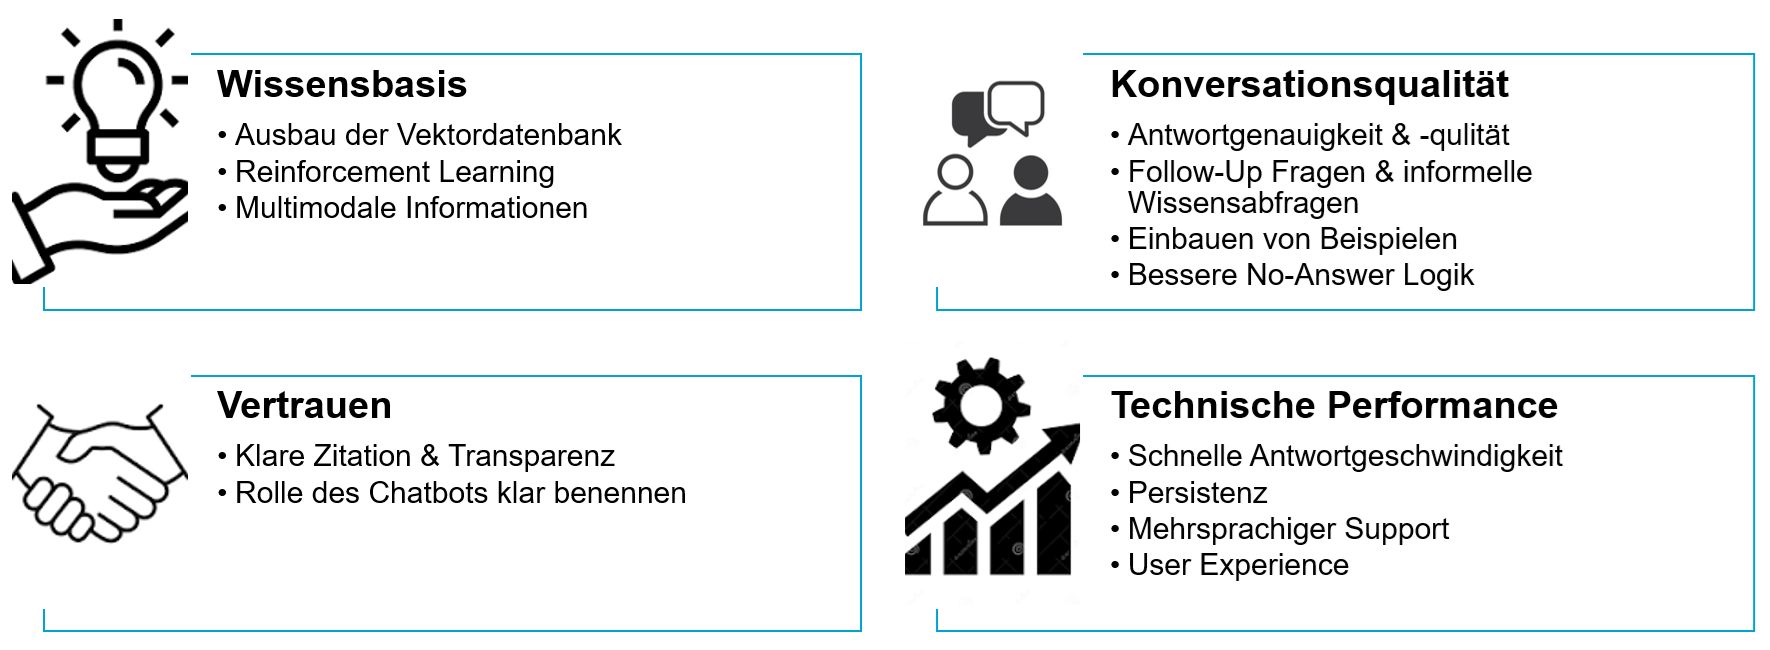
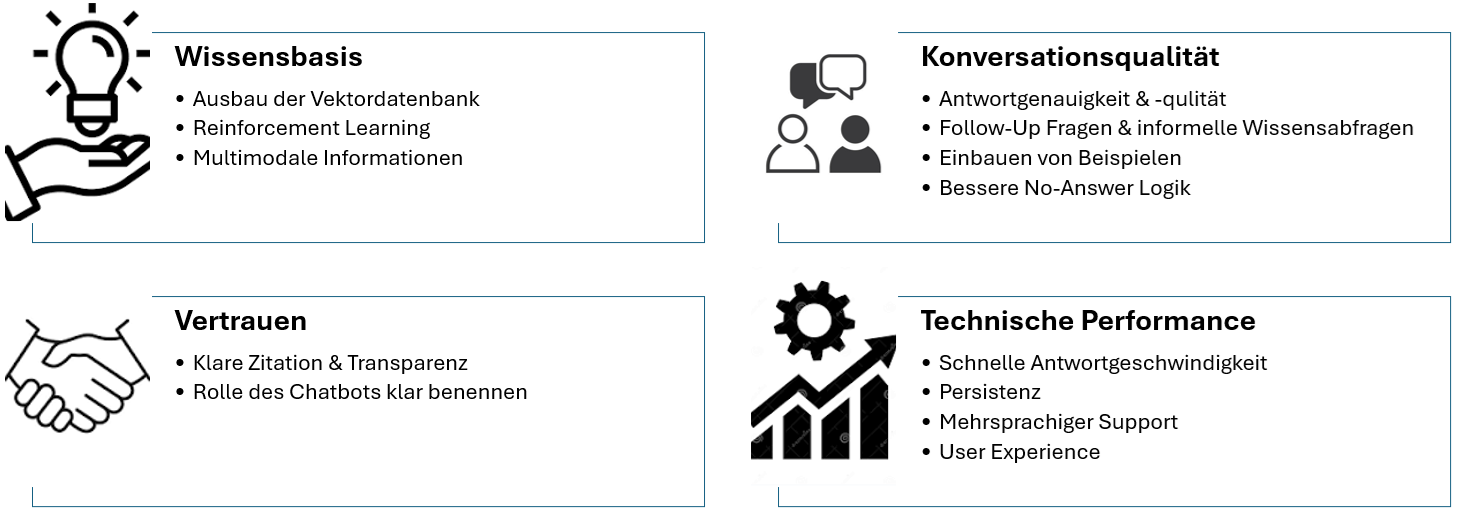
Methodik MaxW. Version1

diff --git a/kapitel/04_methodik.tex b/kapitel/04_methodik.tex
@@ -23,6 +23,7 @@ Neben Qualitäts- und Akzeptanzdimensionen gewinnt zunehmend auch die wirtschaft
 Zusammenfassend lässt sich der Forschungsstand in drei Entwicklungslinien bündeln: Erstens die Ausdifferenzierung technischer Metriken entlang von Retrieval- und Generationsdimensionen mit Fokus auf Kontexttreue und Robustheit \cite{Yu2025SurveyRAG}. Zweitens die Etablierung automatisierter, LLM-gestützter Evaluationsframeworks wie RAGAS zur skalierbaren Qualitätsmessung, deren Ergebnisse jedoch domänenspezifisch validiert werden müssen \cite{Es2023RAGAS,Roychowdhury2024RAGAS}. Drittens die Integration menschlicher Urteile – sowohl nutzer- als auch expertengestützt – sowie die Berücksichtigung ökonomischer Faktoren im Anwendungskontext \cite{Neumann2024MoodleBot}. Vor diesem Hintergrund ist eine kombinierte Evaluationsstrategie, die automatisierte Metriken, Blindtests und wirtschaftliche Analysen zusammenführt, methodisch gut begründet und entspricht dem aktuellen Stand der Forschung.
 
 \subsection{Evaluationskonzept}
+\label{sec:evalkonzept}
 
 \subsubsection{Blindtest: Experten}
 
@@ -111,11 +112,16 @@ Die Weiterentwicklung eines RAG-basierten Chatbots ist ebenso wie dessen Evaluat
 
 \subsubsection{Stand der Forschung}
 ??
+Single Hop und Multi Hop erklären
+Hybrides Retrieval erklären
+Reranker erklären
+?Sokratischer Lernassistent?
 
 \subsubsection{Stakeholder}
-Der Einbezug der Stakeholder erfolgt primär durch das Auswerten einer ersten Phase von User Test. Diese wurden im Februar 2025 nach X jährigen Bestehen des Chatbots druchgeführt.
-INFOS ZU USER TEST ERFRAGEN
-Die Ergebnisse der User Tests ist in Tabelle \ref{tab:usertests}
+INFO ZU USER TESTS ERFRAGEN
+
+Bevor der Durchführung des in Kapitel \ref{sec:evalkonzept} beschriebenen Evaluationskonzepts, erfolgt der Einbezug der Stakeholder primär durch das Auswerten einer ersten Phase von User Tests. Diese wurden im Februar 2025 durch den KI-Campus durchgeführt und folgten den Think-Aloud Protokoll bei Nutzung des Chatbots. Final gesammelt wurden dabei die Defizite der aktuellen Chatbotversion, welche nach Relevanz kategorisiert wurden. Diese Erkenntnisse wurden durch die Autoren in Oberkategorien synthetisiert und diese Ergebnisse sind in Tabelle \ref{tab:usertests} ersichtlich. Im Bereich hoher Relevanz dominieren funkionale Defizite, wie die Antwortlatenz, die Qualität der zurückgegebenen Antworten sowie die Persistenz der Konversationen. Darüber hinaus gibt es Schwierigkeiten im Bereich der Mehrsprachigkeit sowie Bedenken über eine unzureichende Wissensbasis, die eventuell auf externe Wissensquellen durch das Model Context Protocol (MCP) zugreifen sollte. Des weiteren werden Möglichkeiten des Reinforcement Learning from Human Feedback (RLHF) nicht genutzt. Defizite mittlerer Relevanz betreffen vor allem die Bearbeitbarkeit von Chatanfragen, mangelnde Unterstützung informeller Lernprozesse und die fehlende Fähigkeit für Smalltalk. Zudem fehlen multimodale Integrationen. Im Bereich niedriger Relevanz werden neben einem zu simplen Interface, das nicht klar die Funktionalität des Chatbots kommuniziert, vor allem das Fehlen erweiterter Funktionen wie eine Exportfunkiuon oder das Einbeziehen von Community-Informationen kritisiert.
+Zu den relevanten Defiziten zählen damit die Kernfunktionalität, Antwortqualität und Kontextverarbeitung, während Erweiterungsfunktionen und Interface-Aspekte eine geringere Priorität aufweisen.
 
 \begin{table}[htbp]
 \centering
@@ -139,42 +145,71 @@ Unzureichende Persistenz der Konversationen & Beispiele und Use Cases in Antwort
 \hline
 User Feedback einbinden (RLHF) & Schlechte No-Answer Logik & Keine Exportfunktion der Chats \\
 \hline
-Größere Wissensbasis für Antwort & Schwache Outputformatierung & Antworten teils generisch und nicht kontextgetreu \\
+Größere Wissensbasis für Antwort (MCP?) & Schwache Outputformatierung & Antworten teils generisch und nicht kontextgetreu \\
 \hline
 Oberflächliche Zusammenfassungen & Multimodale Informationen nicht eingebunden & Keine KIC Community Info im Chatkontext \\
 \hline
 Follow-up Fragen fehlen &  &  \\
 \hline
 \end{tabular}
-\caption{Festgestellte Schwachstellen nach Relevanz}
+\caption{Festgestellte Defizite nach Relevanz}
 \label{tab:usertests}
 \end{table}
 
 \subsubsection{Identifizierte Systemanforderungen}
-Auf Basis der durchgeführten Anforderungsanalyse wurden die in Abbildung \ref{fig:systemanforderungen} dargestellten Systemanforderungen für die Weiterentwicklung des RAG-basierten Chatbots identifiziert.
+\label{sec:ident_systemanforderungen}
+Abbildung \ref{fig:systemanforderungen} systematisiert die aus der Anforderungsanalyse abgeleiteten Verbesserungspotenziale und stellt konkrete Handlungsdimensionen für die Weiterentwicklung des RAG-basierten Chatbots dar. Dazu gehören die Wissensbasis, Vertrauen, Konversationsqualität und Technische Performance. Die Wissensbasis umfasst die Erweiterung des verfügbaren Kontexts des RAG-Systems mittels einen Ausbau der Vektordatenbank und die Erweiterung um multimodale Inhalte sowie das Integrieren von Feedback-Mechanismen (bspw. RLHF). Vertrauen umfasst den im Bildungskontext besonders relevanten Aspekt der Transparenz, der eine nachvollziehbare Zitation und eine klare Rollenbeschreibung des Systems beinhaltet. Die Konversationsqualität umfasst vor allem die Verbesserung der Antwortqualität und der Interaktionsfähigkeit des Chatbots. Hierbei geht es nicht nur darum das einfache "Questions an Answers" (Q\&A) zu verbessern, sondern auch eine stärkere Kontextintegration, die Fähigkeit zu Follow-up-Fragen und die Einbindung von Beispielen und Use Cases als auch die Möglichkeit korrekt zu Smalltalk zu reagieren. Die technische Performance umfasst drei wichtige Kategorien. Die Antwortgeschwindigkeit, die technisch korrekte Funktion des Chatbots, wozu Konversationsperistenz sowie mehrspracheriger Support gehören, und die Verbesserung der User Experience (UX), die vor allem mit einer Verbesserung des User Interface (UI) korrepsondiert. Diese identifizerten Systemanforderungen bilden die Grundlage für die technische Umsetzung der Weiternentwicklung, welche in Kapitel \ref{sec:technische_umsetzung} beschrieben wird.
+
 \begin{figure}[h]
     \centering
-    \includegraphics[width=0.8\textwidth]{systemanforderungen.png}
+    \includegraphics[width=0.9\textwidth]{systemanforderungen.png}
     \caption{Identifizierte Systemanforderungen}
     \label{fig:systemanforderungen}
 \end{figure}
 
-\subsection{Technische Umsetzung}
+\subsection{Auswahl der Implementierungen}
+Aufgrund der zeitlichen Begrenzung der Projektarbeit konnten nicht alle identifizierten Systemanforderungen auch mittels technischer Implementierungen umgesetzt werden. In diesem Kapitel wird beschrieben, welche Anforderungen technisch umgestzt wurden und welche nicht.
+Grundlage jedlicher Implementierungen ist stets die bestehende Codebasis, welche im GitHub Repository \textit{kic-web-assistant} \cite{kic_version1} nachvollzogen werden kann. Im Folgenden wird der Code und der dazugehörige Chatbot als Version 1 (V1) bezeichnet. Um bestehende Schwächen sowie Ansatzpunkte für das Umsetzen der Systemanforderungen zu identifizieren, wurde der vorliegende Code analysiert. Zentral ist hierbei nicht die Architektur, welche in Kapitel \ref{sec:kic} bereits beschrieben ist, sondern um die eigentlichen Codezeilen. Hierbei fällt direkt auf, dass Version 1 keine standardisierten Frameworks für die Implementierung nutzt. Jegliche Abläufe sind eigenständig codiert, was die Flexibilität erhöht, aber auch die Wartbarkeit und Erweiterbarkeit erschwert. Zudem sorgt dies auch dafür, dass die aktuelle Persistenz komplett im Frontend der Anwendung liegt und es keine Mechanismen für Persistenz im Backend gibt. Ein weiterer auffälliger Punkt ist die limitierte Ingestion-Pipeline, die nur einen Bruchteil der vorhandenen textbasierten Daten in Moodle verarbeitet. Des Weiteren sind viele der Systemprompts veraltet und beinhalten keine bildungsspezifischen Anweisungen. Die kritisierte No-Answer Logik ist zudem keine Schwäche des verwendeten LLM, sondern hardcodiert in den Workflow des Chatbots. Für eine multimodale Verarbeitung fehlen ebenfalls jegliche Schnittstellen, sodass Kommunikation auf Text limitiert ist. Schließlich konnten verschiedene kleinere Bugs identifiziert werden, die im Laufe der Implementierungen behoben werden können.
 
-\subsubsection{Codeanalyse}
+Abbildung \ref{fig:auswahl_implementierungen} stellt aus den identifizierten Systemanforderungen ausgewählten Implementierungen dar. Bezüglich der Wissensbasis wird der Ausbau der Vektordatenbank vorangetrieben. In der Codeanalyse wurde die limitierte Vektordatenbank erkannt und soll im Rahmen der Implementierungen erweitert werden. Dafür sollen zum einen deutlich mehr textbasierte Daten eingelesen werden. Zudem wird ein multimodaler Support eingebaut, der vorerst nur Audiodateien umfasst. Eine breitere Verarbeitung von Bildern und Videos ist technisch aufwendig und wurde im Rahmen dieses Projekts nicht priorisiert. Dies gilt auch für das Einbinden von Feedback, was für die unmittelbar folgende Implementierung erstmal keinen Mehrwert bietet und daher ebenfalls nicht priorisiert wurde. Für die Vertrauensdimension spielt die Zitation eine zentrale Rolle. Diese wird vor allem in Blick auf die Transparenz verbessert, während eine Umstellung der Logik die Rollen des Chatbots klarer kommuniziert. In Bezug auf die Konversationsqualität soll vor allem die Umstellung der Logik die identifizierten Systemanforderungen erfüllen, wobei auch das Anpassen der Systemprompts eine wichtige, wenn auch untergeordnete, Rolle spielt. Im Bezug auf die technische Performance soll die Antwortgeschwindigkeit durch die Implementierung von Streaming verbessert werden. Streaming bedeutet, dass die Antwort bereits während der Generierung an den Nutzer zurückgegeben wird, anstatt erst nach vollständiger Generierung. Dies kann die wahrgenommene Antwortlatenz erheblich reduzieren. Die Persistenz im Backend soll durch die Umstellung der Logik sichergestellt werden. Der mehrsprachige Support, obwohl für eine europäische Organisation wie den KI-Campus sehr wichtig, wurde in Absprache mit diesem erstmal nicht priorisiert, unter anderem auch weil die meisten Nutzer der Plattform Deutsch sprechen. Schließlich wurden Änderungen am User Interface weggelassen, weil das Frontend durch einen weiteren Serviceanbieter (LOOM GmbH) verwaltet wird, die nicht Teil des Projekts sind.
+
+\begin{figure}[h]
+    \centering
+    \includegraphics[width=0.9\textwidth]{auswahl_implementierungen.png}
+    \caption{Darstellung der ausgewählten Systemanforderungen mit konkreter Umsetzung (Auswahl fett markiert)}
+    \label{fig:auswahl_implementierungen}
+\end{figure}
+
+\subsection{Technische Umsetzung}
+\label{sec:technische_umsetzung}
 
 \subsubsection{Erweiterung der Ingestion-Pipeline}
 Veit
 
 \subsubsection{Umstellung der Logik}
+Die Umstellung der Logik des Chatbots von dem in Kapitel \ref{sec:kic} dargestellten Prompt Chaining hin zu den in Abbildung \ref{fig:worklow_neu} dargestellten Routing-Ansatz stellt die größte Implementierung der Autoren dar. Relevant ist neben der architektonischen Änderungen hier auch das Nutzen der standardisierten Bibliothek LangGraph. Diese erlaubt das einfache Modellieren komplexer Workflows mittels Knoten, in denen die eigentliche Logik codiert ist, und Kanten, die die Verbindungen zwischen den Knoten darstellen. In jedem Knoten wird der State einer Anfrage verändert, welche durch das Durchlaufen aller Knoten komplett verarbeitet wird. Dies ermöglicht eine deutlich leichter erweiterbare und wartbare Architektur und hat eine built-in Funktion für die Persistenz der Konversationen. In Bezug auf Abbildung \ref{fig:worklow_neu} erkennt man leicht, warum der Ansatz Routing genannt wird. Je nach Anfrage werden verschiedene Pfade durch den Workflow genommen, was eine deutlich flexiblere Verarbeitung von Anfragen ermöglicht. Die möglichst optimale Verarbeitung jeder Anfrage ist die Grundlage des Routings. Der Workflow bestimmt dabei auch die Rolle des Chatbots, welche dann eindeutig mit dem Nutzer kommuniziert werden kann. Die ersten beiden Schritte jeder Anfrage sind identisch. Zuerst wird die Anfrage klassifiziert, um zu bestimmen, welcher Workflow genutzt werden sollte. Darauf folgt die bekannte Kontextualisierung. Ab hier gibt es die Aufteilung. Der \textit{Path ohne Retrieval} wird für einfache Anfragen genutzt, die ohne zusätzlichen Kontext beantwortet werden können. Hierzu zählt Smalltalk aber auch die Verarbeitung von sinnlosen Anfragen. Was zuvor mittels der starren No-Answer Logik gelöst wurde, wird nun durch flexible, kontextgetreue Antworten ersetzt. Damit wird schlussendlich auch Kosten gespart, weil unnötige Retrievals vermieden werden. \textit{Single- und Multi Hop} sind die Erweiterung des ursprünglichen linearen Workflows. Einfache Anfragen entsprechen dem Single Hop, weil diese nur eine Single Source of Truth benötigen. Multi Hop sind komplexere Anfragen, die mehrere Kontextquellen benötigen. Hierfür werden Anfragen in mehrere kleinere Teilfragen zerlegt, die parallel als Single Hop verarbeitet werden. Das semantische Retrieval wird zudem durch das hybride Retreival ersetzt. Im Multi Hop Workflow werden hier die zeitgleich retrievden Kontexte dedupliziert. Anschließend kommen alle retrievden Kontexte in einen Reranker, um die Qualität dieser sicherzustellen. Erst danach werden die finalen Kontexte an das LLM übergeben, um die Antwort zu generieren. Die größte Implementierung bei der Umstellung der Logik ist das Einführen des \textit{Sokratischen Lernassistenten}. Dieser wird durch einen hardcodierten Satz (\"Ich möchte etwas Lernen") aktiviert und dient vor allem der Umstellung von einem einfachen Q\&A Chatbot hin zu einer interaktiven Lernunterstützung. 
 
 \begin{figure}[h]
     \centering
     \includegraphics[width=0.9\textwidth]{workflow_neu.png}
-    \caption{Neuer Workflow des RAG-basierten Chatbots in LangGraph}
+    \caption{Neuer Workflow (Routing) des RAG-basierten Chatbots in LangGraph}
     \label{fig:worklow_neu}
 \end{figure}
 
-\subsubsection{Spezifische Anpassungen}
+Der schematische Ablauf des sokratischen Lernassistenten ist in Abbildung \ref{fig:socratic} dargestellt. Dieser besteht aus sechs Modi die teilweise linear und teilweise iterativ durchlaufen werden. Nach der Aktivierung durch den Nutzer beginnt der Lernassistent mit dem \textit{Socratic Contracting}. Dies ist ein fester Prompt der den Sinn des Lernmodus kommuniziert und die Regeln der Interaktion festlegt. Der Nutzer wird aufgefordert das Thema zu nennen, das er lernen möchte. Darauf folgt die \textit{Socratic Diagnose}. Dieser Schritt hat das Ziel die Lernziele des Nutzers festzustellen. Man spricht nach Abschluss dieser Stufe von einem entstandenen sokratischen Vertrag, der durch die folgenden Schritte iterativ abgearbeitet wird, sodass der Nutzer am Ende das gewünschte Thema gelernt hat. Diese iterative Stufe ist der \textit{Socratic Core}. In diesem werden stets die sokratischen Fragen gestellt, die die Grundlage des sokratischen Lernens darstellen. Im Idealfall bringt dies den Nutzer dazu das gewünschte Wissen im Dialog durch Follow-up Fragen, informelle Wissensabfrage und Beispiele eigenständig zu erarbeiten. Wenn der Lernassistent den Lernerfolg erkennt, folgt das \textit{Socratic Feedback}, also das Einordnen der Lernleistung, was den Abschluss des Lernmodus darstellt. Sollte der Nutzer feststecken, kann der Lernassistent durch \textit{Socratic Hinting} Hinweise bekommen oder einfach eine Erklärung per \textit{Socratic Explain} erhalten, die beide zum Socratic Core gezählt werden. Der Lernmodus kann dabei nach Abschluss neu gestartet werden oder jederzeit mit oder ohne Erklärung verlassen werden. Die Entscheidungen im Socratic Core werden per Router (Klassifikation) getroffen, während die anderen Schritte hardcodierte Abfolgen sind.
 
-\subsubsection{Begründung ausgelassener Anforderungen}
+\begin{figure}[h]
+    \centering
+    \includegraphics[width=0.9\textwidth]{socratic.png}
+    \caption{Schematischer Ablauf des sokratischen Lernassistenten}
+    \label{fig:socratic}
+\end{figure}
+
+\subsubsection{Weitere Anpassungen}
+Neben der Erweiterung der Ingestion-Pipeline und der Umstellung der Logik wurden drei weitere, kleinere Anpassungen durchgeführt, die an dieser Stelle kurz beschrieben werden.
+
+Dies ist zum einen die \textbf{Anpassung der Systemprompts} Max?!
+
+Zum anderen gibt es ein \textbf{Anpassen der Zitation} mit dem Hauptziel die verwendeten Quellen transparenter darzustellen. Anstatt in der Antwort einfach nur eine Zahl stehen zu haben (\textit{[1]}) wird der Titel es jeweiligen Moodle-Moduls angezeigt (\textit{[Titel der Quelle]}). Besonders durch den starken Anstieg der eingelesenen Module und damit verbunden deutlich mehr möglichen Quellen ermöglicht dies bereits in der Antwort abschätzen zu können, ob eine Quelle sinnvoll ist und nicht erst dem verfügbaren Link folgen zu müssen. Der implementierte Reranker sorgt zudem dafür, dass die Qualität der zurückgegebenen Quellen verbessert wird, was die Zitation zusätzlich verbessert.
+
+Abschließend wurde die \textbf{Implementierung von Streaming} durchgeführt. Hierfür wird jeder Token direkt bei der Generierung an das Frontend zurückgegeben und damit direkt für den Nutzer sichtbar gemacht. Nach Abschluss der Antwortgenerierung greift das Postprocessing trotzdem und erstellt wie gehabt die verwendeten Quellen, um diese am Ende der Antwort anzuzeigen.

diff --git a/frontmatter/abkuerzungen.tex b/frontmatter/abkuerzungen.tex
@@ -3,6 +3,11 @@
 
 \begin{tabular}{ll}
 AI   & Artificial Intelligence \\
-RAG  & Retrieval-Augmented Generation \\
 LLM  & Large Language Model \\
+MCP  & Model Context Protocol \\
+RAG  & Retrieval-Augmented Generation \\
+RLHF & Reinforcement Learning from Human Feedback \\
+Q\&A & Questions and Answers \\
+UX & User Experience \\
+UI & User Interface \\
 \end{tabular}

diff --git a/kapitel/02_kic.tex b/kapitel/02_kic.tex
@@ -1,1 +1,2 @@
 \chapter{Systemarchitektur des KI-Campus-Chatbots}
+\label{sec:kic}
